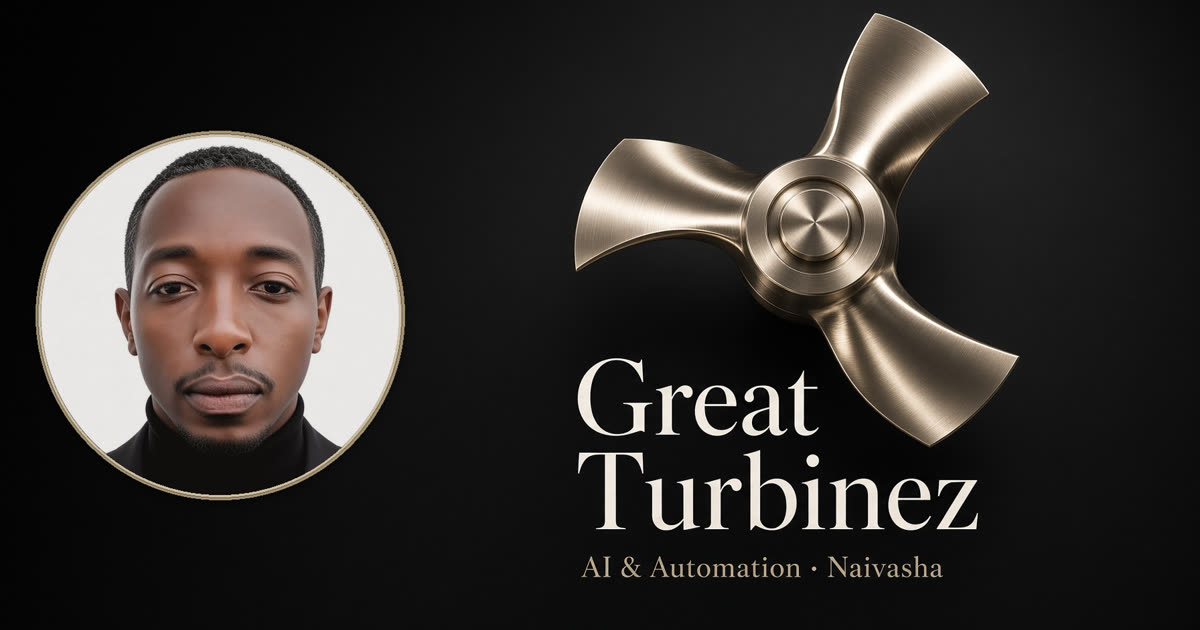
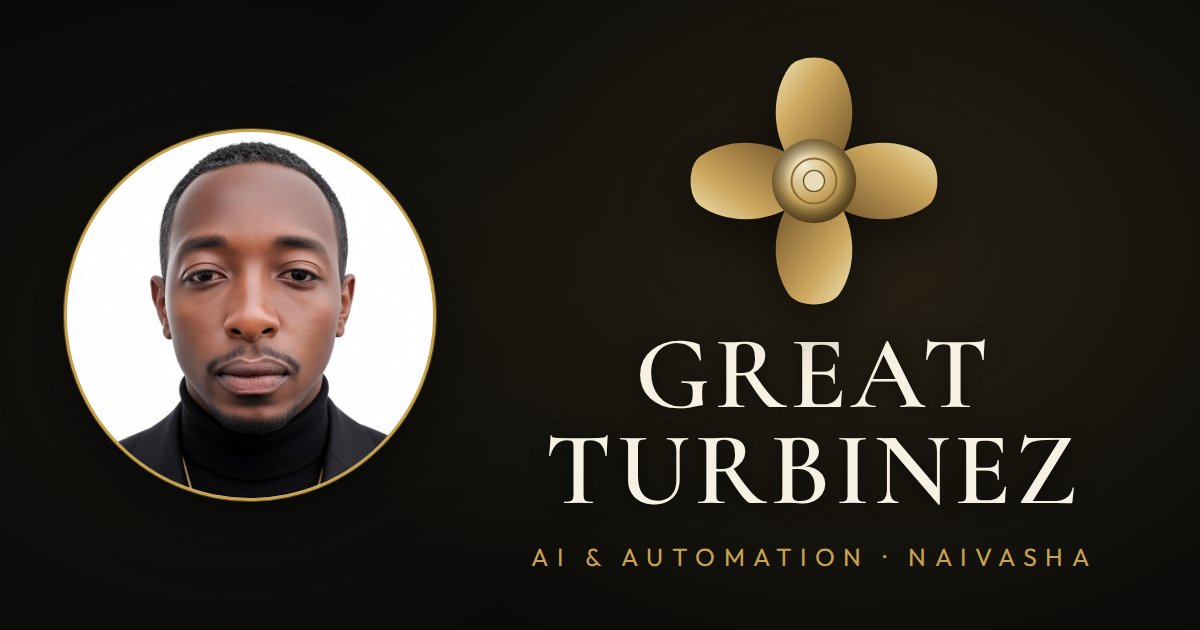
Rebrand to GREAT TURBINEZ across copy, metadata and share card

Changed region(s): [[0.4317, 0.0, 0.8942, 0.8444], [0.0308, 0.181, 0.37, 0.8143], [0.4317, 0.8746, 0.925, 0.9349]]

diff --git a/src/lib/site.ts b/src/lib/site.ts
@@ -1,5 +1,5 @@
 export const COMPANY = {
-  name: "Great Turbinez",
+  name: "GREAT TURBINEZ",
   tagline: "AI & Automation",
   city: "Naivasha",
   country: "Kenya",
@@ -10,7 +10,7 @@ export const COMPANY = {
 
 export const QUOTE = {
   text: "Life is a current, not a monument. Fire, the wheel, the engine, the network — every age asked us to evolve with the tool in our hands. Now the tool is intelligence itself. Artificial intelligence is not arriving. It is already here, rewriting work and will. The future does not wait for permission. Neither should we.",
-  attribution: "Great Turbinez",
+  attribution: "GREAT TURBINEZ",
 } as const;
 
 export type ServiceId =

diff --git a/src/routes/__root.tsx b/src/routes/__root.tsx
@@ -22,7 +22,7 @@ export const Route = createRootRoute({
       {
         name: "description",
         content:
-          "Great Turbinez is an AI and automation studio in Naivasha, Kenya. We design and install systems that take repetition off the floor for farms, lodges, desks and operations.",
+          "GREAT TURBINEZ is an AI and automation studio in Naivasha, Kenya. We design and install systems that take repetition off the floor for farms, lodges, desks and operations.",
       },
       { name: "theme-color", content: "#090908" },
     ],

diff --git a/src/routes/index.tsx b/src/routes/index.tsx
@@ -22,7 +22,7 @@ export const Route = createFileRoute("/")({
       {
         name: "description",
         content:
-          "Great Turbinez designs and installs AI and automation for operators across Kenya — farms, lodges, desks and floors. Named prices, scoped before we start.",
+          "GREAT TURBINEZ designs and installs AI and automation for operators across Kenya — farms, lodges, desks and floors. Named prices, scoped before we start.",
       },
     ],
   }),

diff --git a/src/components/portrait.tsx b/src/components/portrait.tsx
@@ -17,7 +17,7 @@ type PortraitProps = {
 export function Portrait({
   size = "lg",
   className,
-  alt = "Principal of Great Turbinez",
+  alt = "Principal of GREAT TURBINEZ",
 }: PortraitProps) {
   return (
     <div className={cn("relative shrink-0 rounded-full", SIZE[size], className)}>
